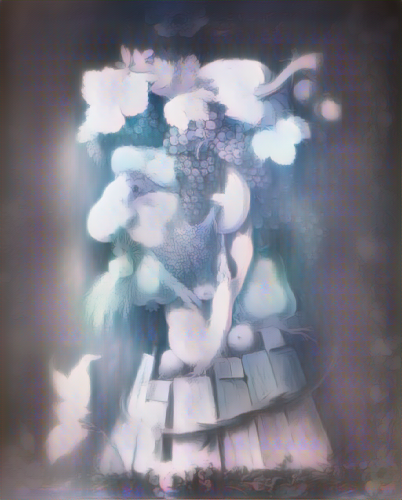
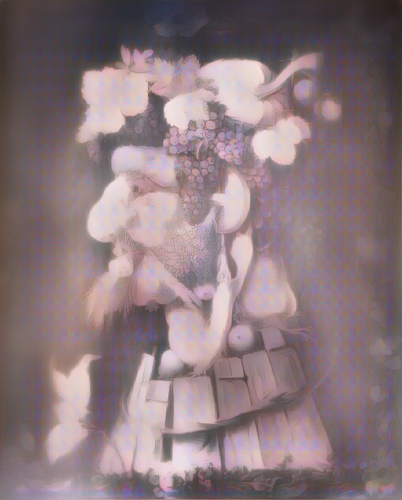
fix inspection error, make color change less predictable

diff --git a/main.py b/main.py
@@ -6,10 +6,11 @@ import imageio
 import scipy.ndimage
 import requests
 import json
-from PIL import Image, ImageFilter, ImageDraw, ImageOps
+from PIL import Image, ImageDraw
 import matplotlib.pyplot as plt
 import base64
 from io import BytesIO
+import random
 
 import urllib3
 
@@ -17,9 +18,9 @@ urllib3.disable_warnings()
 
 
 # -----------------------------
-# opencv initialization
+# open cv initialization
 def main():
-    timeLastCall = time()
+    time_last_call = time()
 
     face_cascade = cv2.CascadeClassifier('./haarcascade_frontalface_default.xml')
 
@@ -36,13 +37,13 @@ def main():
     # pool = Pool(processes=1)
 
     # Traitement Image
-    imgUrl = "http://www.michellart.com/Images/ArcimboldoAutumn1573_Diapo.jpg"
+    img_url = "http://www.michellart.com/Images/ArcimboldoAutumn1573_Diapo.jpg"
 
-    start_img = imageio.imread(imgUrl)
+    start_img = imageio.imread(img_url)
 
     # start_img.shape(196, 160, 30)
 
-    gray_img = grayscale(start_img)
+    gray_img = greyscale(start_img)
 
     inverted_img = 255 - gray_img
 
@@ -60,7 +61,7 @@ def main():
 
     # display the new image with edge detection done
 
-    while (True):
+    while True:
         ret, img = cap.read()
 
         gray = cv2.cvtColor(img, cv2.COLOR_BGR2GRAY)
@@ -84,21 +85,21 @@ def main():
             # find max indexed array 0: angry, 1:disgust, 2:fear, 3:happy, 4:sad, 5:surprise, 6:neutral
             max_index = np.argmax(predictions[0])
 
-            emotion = emotions[max_index]
+            emotion = emotions[int(max_index)]
 
             # write emotion text above rectangle
             cv2.putText(img, emotion, (int(x), int(y)), cv2.FONT_HERSHEY_SIMPLEX, 1, (255, 255, 255), 2)
 
             # call function every seconds
-            if timeLastCall + 10 < time():
-                newImage(emotion, image1.size)
-                #"./ img / images.png"
+            if time_last_call + 10 < time():
+                new_image(emotion, image1.size)
+                # "./ img / images.png"
 
-                new_image = cv2.imread('./img/images.png', 1)
+                display_image = cv2.imread('./img/images.png', 1)
 
-                cv2.imshow('image', new_image)
+                cv2.imshow('image', display_image)
 
-                timeLastCall = time()
+                time_last_call = time()
 
             # process on detected face end
             # -------------------------
@@ -113,7 +114,7 @@ def main():
     cv2.destroyAllWindows()
 
 
-def grayscale(rgb): return np.dot(rgb[..., :3], [0.299, 0.587, 0.300])
+def greyscale(rgb): return np.dot(rgb[..., :3], [0.299, 0.587, 0.300])
 
 
 def dodge(front, back):
@@ -126,22 +127,20 @@ def dodge(front, back):
     return result.astype('uint8')
 
 
+def new_image(emotion, size):
+    url = "https://dvic.devinci.fr/dgx/paints_torch/api/v1/colorizer"
 
-def newImage(emotion, size):
-
-    URL = "https://dvic.devinci.fr/dgx/paints_torch/api/v1/colorizer"
-
-    myImage = open('./img/new_image.png', 'rb')
-    result_read = myImage.read()
+    my_image = open('./img/new_image.png', 'rb')
+    result_read = my_image.read()
     result_64_encode = base64.encodebytes(result_read)
 
-    newHint(size, emotion)
+    new_hint(size, emotion)
 
     hint = open('./img/hint.png', 'rb')
     hint_read = hint.read()
     hint_64_encode = base64.encodebytes(hint_read)
 
-    jsonData = json.dumps({
+    json_data = json.dumps({
         'sketch': result_64_encode.decode("utf-8"),
         'hint': hint_64_encode.decode("utf-8"),
         'opacity': 0
@@ -150,23 +149,22 @@ def newImage(emotion, size):
     headers = {'Content-type': 'application/json; charset=utf-8', 'dataType': 'json'}
 
     # sending get request and saving the response as response object
-    r = requests.post(url=URL, data=jsonData, headers=headers, verify=False)
+    r = requests.post(url=url, data=json_data, headers=headers, verify=False)
 
-    data = r.raise_for_status()
+    r.raise_for_status()
 
-    jsonResponse = r.json()
+    json_response = r.json()
 
-    imgData = base64.b64decode(jsonResponse['colored'].split(",")[1])
+    img_data = base64.b64decode(json_response['colored'].split(",")[1])
 
-    final_img = Image.open(BytesIO(imgData))
+    final_img = Image.open(BytesIO(img_data))
 
     final_img.save('./img/images.png', 'PNG')
 
     return final_img
-    #final_img.show()
 
 
-def newHint(size, emotion):
+def new_hint(size, emotion):
     hin = Image.new('RGBA', size, (255, 0, 0, 0))
 
     if 'angry' == emotion:
@@ -210,46 +208,23 @@ def newHint(size, emotion):
         return
 
     draw = ImageDraw.Draw(hin)
-    draw.line((size[0] / 3, size[1] / 4 + 4, size[0] / 3, size[1] / 4), fill=main_color, width=3)
-    draw.line((size[0] / 3 * 2, size[1] / 4 + 4, size[0] / 3 * 2, size[1] / 4), fill=main_color, width=3)
-    draw.line((size[0] / 3, size[1] / 4 * 2 + 4, size[0] / 3, size[1] / 4 * 2), fill=second_color, width=3)
-    draw.line((size[0] / 3 * 2, size[1] / 4 * 2 + 4, size[0] / 3 * 2, size[1] / 4 * 2), fill=second_color, width=3)
-    draw.line((size[0] / 3, size[1] / 4 * 3 + 4, size[0] / 3, size[1] / 4 * 3), fill=third_color, width=3)
-    draw.line((size[0] / 3 * 2, size[1] / 4 * 3 + 4, size[0] / 3 * 2, size[1] / 4 * 3), fill=third_color, width=3)
+
+    if random.choice([True, False]):
+        draw.line((size[0] / 3, size[1] / 4 + 2, size[0] / 3, size[1] / 4), fill=main_color, width=2)
+    if random.choice([True, False]):
+        draw.line((size[0] / 3 * 2, size[1] / 4 + 2, size[0] / 3 * 2, size[1] / 4), fill=main_color, width=2)
+    if random.choice([True, False]):
+        draw.line((size[0] / 3, size[1] / 4 * 2 + 2, size[0] / 3, size[1] / 4 * 2), fill=second_color, width=2)
+    if random.choice([True, False]):
+        draw.line((size[0] / 3 * 2, size[1] / 4 * 2 + 2, size[0] / 3 * 2, size[1] / 4 * 2), fill=second_color, width=2)
+    if random.choice([True, False]):
+        draw.line((size[0] / 3, size[1] / 4 * 3 + 2, size[0] / 3, size[1] / 4 * 3), fill=third_color, width=2)
+    if random.choice([True, False]):
+        draw.line((size[0] / 3 * 2, size[1] / 4 * 3 + 2, size[0] / 3 * 2, size[1] / 4 * 3), fill=third_color, width=2)
 
     hin.save('./img/hint.png', 'PNG')
 
     return
 
-def overlay_image_alpha(img, img_overlay, pos, alpha_mask):
-    """Overlay img_overlay on top of img at the position specified by
-    pos and blend using alpha_mask.
-
-    Alpha mask must contain values within the range [0, 1] and be the
-    same size as img_overlay.
-    """
-
-    x, y = pos
-
-    # Image ranges
-    y1, y2 = max(0, y), min(img.shape[0], y + img_overlay.shape[0])
-    x1, x2 = max(0, x), min(img.shape[1], x + img_overlay.shape[1])
-
-    # Overlay ranges
-    y1o, y2o = max(0, -y), min(img_overlay.shape[0], img.shape[0] - y)
-    x1o, x2o = max(0, -x), min(img_overlay.shape[1], img.shape[1] - x)
-
-    # Exit if nothing to do
-    if y1 >= y2 or x1 >= x2 or y1o >= y2o or x1o >= x2o:
-        return
-
-    channels = img.shape[2]
-
-    alpha = alpha_mask[y1o:y2o, x1o:x2o]
-    alpha_inv = 1.0 - alpha
-
-    for c in range(channels):
-        img[y1:y2, x1:x2, c] = (alpha * img_overlay[y1o:y2o, x1o:x2o, c] +
-                                alpha_inv * img[y1:y2, x1:x2, c])
 
 main()
